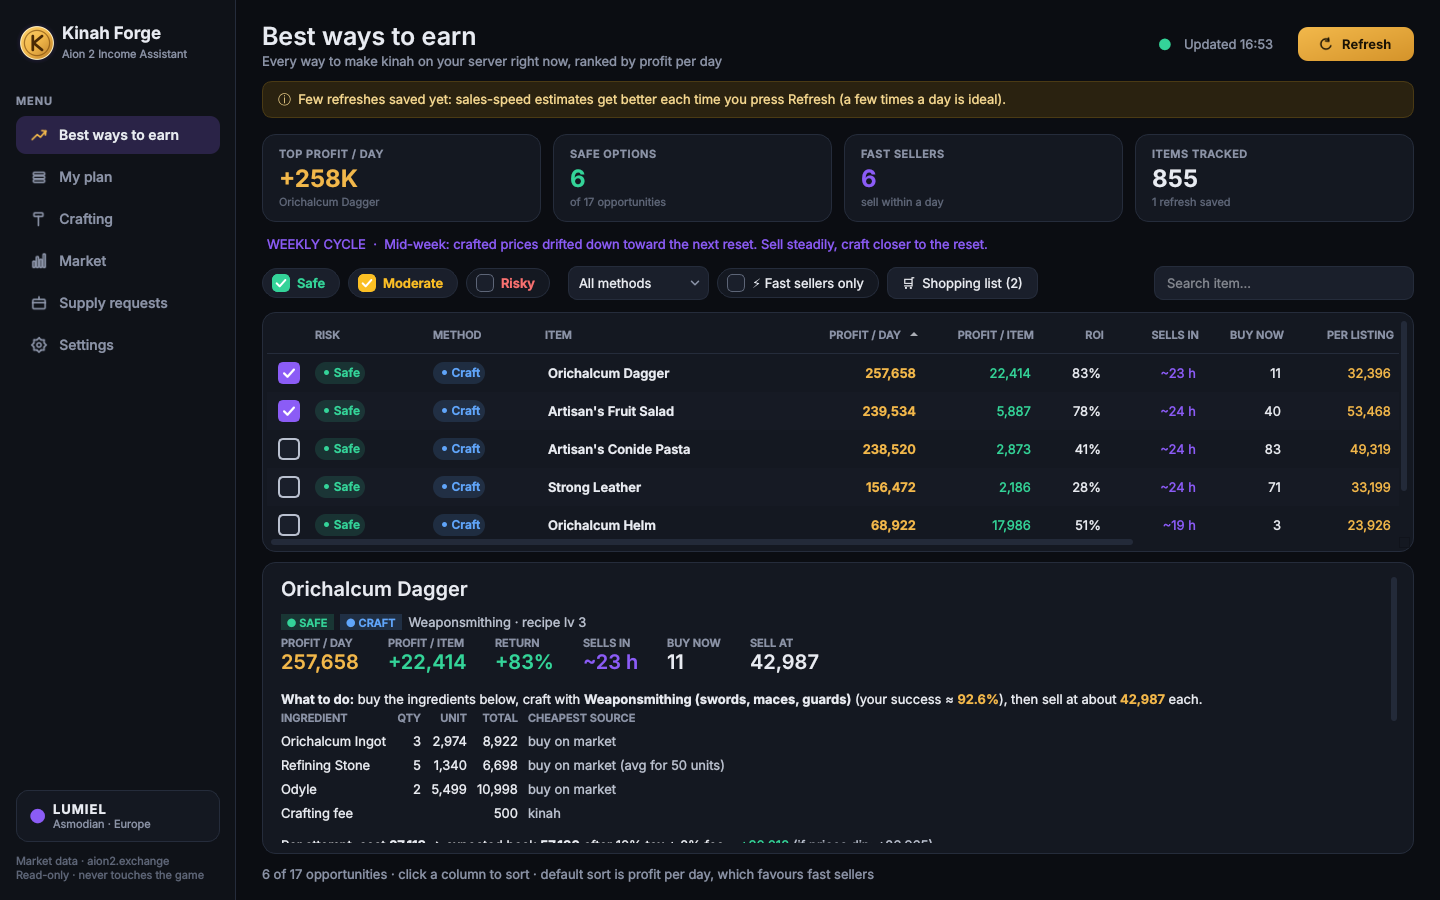
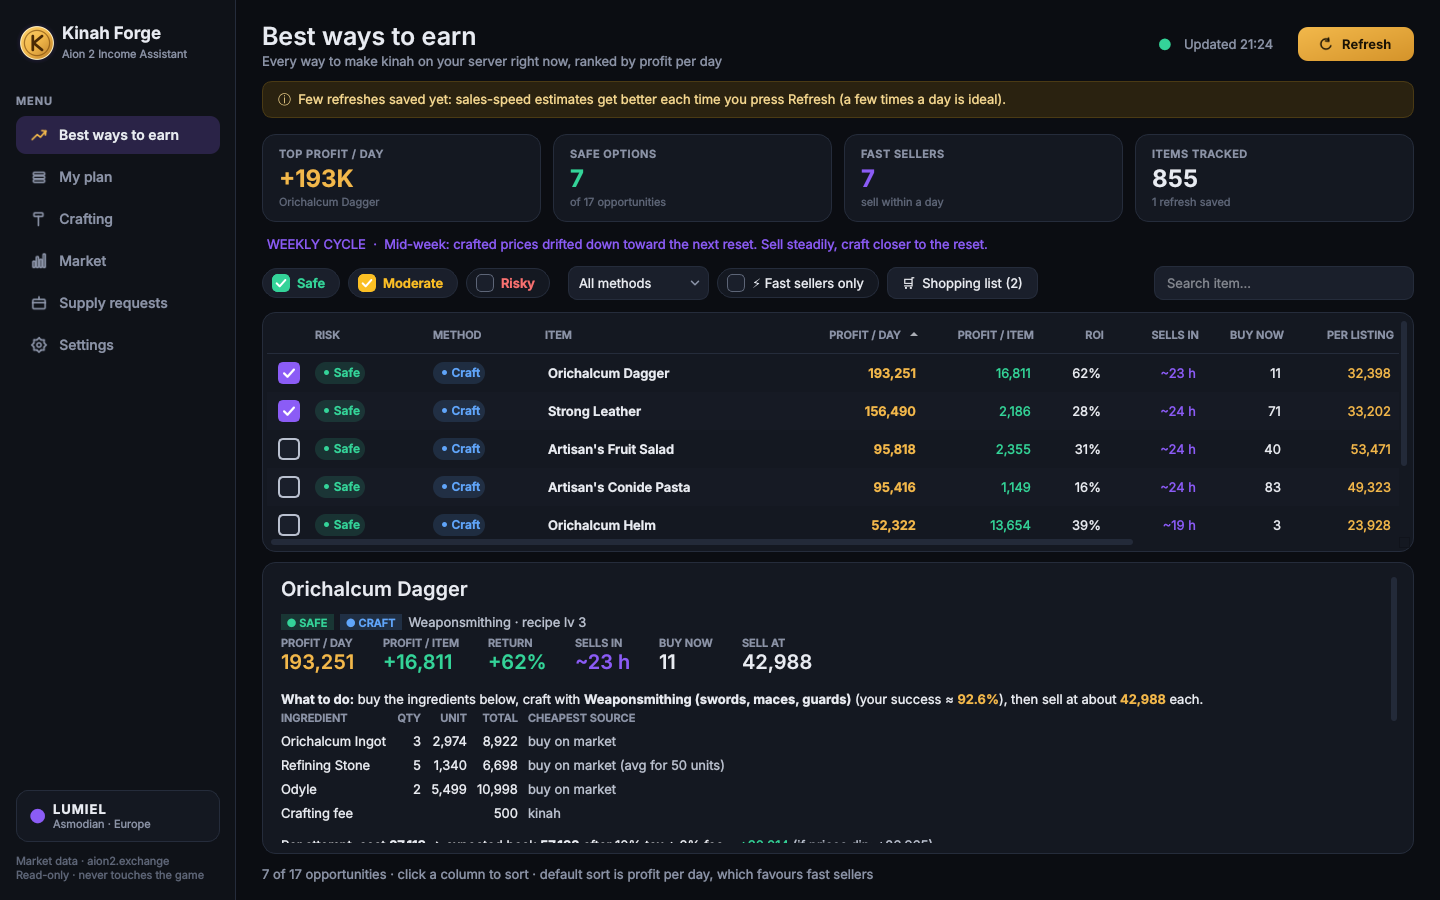
Income Assistant: tuned on 501,120 30-day runs for max income
- Biggest lever found: most of the budget in one item 15% -> 35% (EU typical
  after 30 days 84M -> 89M; past 35% Kaisinel, the real-sales server, gained
  nothing and had worse bad luck). New Settings option to change it.
- Consumables' realistic return x0.4 (they made far less than predicted on
  3 of the 4 servers that trade them).
- Confirmed: 10 days of stock, Safe+Moderate only, +20% minimum.
- Head-to-head, 50,000 runs: EU typical 84.0M -> 87.9M, median 81.7M ->
  86.5M; Kaisinel 88.3M -> 90.0M; Zikel 79.9M -> 86.0M; NA 108M -> 134M;
  better in 19 of 20 setups.
- README results, chart and screenshots refreshed.

Claude-Session: https://claude.ai/code/session_0159oSubnBYt4Xz9pRDyQSQx

diff --git a/income-assistant/aion_income/gui/main_window.py b/income-assistant/aion_income/gui/main_window.py
@@ -568,7 +568,7 @@ class MainWindow(QMainWindow):
         out.append(f"<p class='muted'>Realistic numbers above. The raw prediction is {kinah(o.profit_unit, True)} per item "
                    f"({pct(o.roi, True)}); in simulations on EU servers' real prices, trades predicted like this "
                    f"made about {pct(o.real_roi, True)}. New-game prices are hard to predict, so the plan spreads "
-                   f"your kinah (max 15% per item).</p>")
+                   f"your kinah (max {self.settings.max_share:.0%} per item, set in Settings).</p>")
         if o.good:
             out.append("<p class='green'>✔ " + "<br>✔ ".join(esc(g) for g in o.good) + "</p>")
         return "".join(out)
@@ -700,7 +700,7 @@ class MainWindow(QMainWindow):
         ops = self.plan_ops()
         drift = self.analysis.data.calibration.get("drift") if self.analysis else None
         p, stock_days, trend = make_adaptive_plan(ops, self.settings.budget, self.settings.horizon,
-                                                  self.settings.play_hours, drift)
+                                                  self.settings.play_hours, drift, self.settings.max_share)
         self.current_plan, self.stock_days = p, stock_days
         if stock_days < stock_days_for(trend) and stock_days >= self.settings.horizon:
             stock_note = f" Buying at most {stock_days:g} days of stock, as set by Sell within."
@@ -733,7 +733,8 @@ class MainWindow(QMainWindow):
                 f"{self.horizon_box.currentText()} (≈ {kinah(p.profit_per_day)}/day). Keep {kinah(p.leftover)} spare"
                 + (" — with 10 listing slots, ~5 min per listing and your playing time, the market can't take more."
                    if p.leftover > 0.2 * p.budget else ".") + stock_note)
-        tiers = holding_tiers(ops, self.settings.horizon, self.settings.play_hours, stock_days) if ops else []
+        tiers = (holding_tiers(ops, self.settings.horizon, self.settings.play_hours, stock_days, self.settings.max_share)
+                 if ops else [])
         for lab, name in zip(self.tier_labels, ("Low", "Mid", "High")):
             t = next((t for t in tiers if t.label == name), None)
             color = theme.GOLD if name == "Mid" else theme.TEXT
@@ -1255,6 +1256,15 @@ class MainWindow(QMainWindow):
         self.hours_spin.setToolTip("Each listing takes ~5 min and only 10 can be up at once, so your time limits sales")
         self.hours_spin.valueChanged.connect(self._hours_changed)
         tf.addRow("Hours you play per day", self.hours_spin)
+        self.share_spin = QSpinBox()
+        self.share_spin.setRange(5, 100)
+        self.share_spin.setSuffix(" %")
+        self.share_spin.setFixedWidth(110)
+        self.share_spin.setValue(int(round(self.settings.max_share * 100)))
+        self.share_spin.setToolTip("Most of your budget the plan puts into one item. 35% earned the most in 501,120 "
+                                   "simulated runs; up to 50% can earn a bit more but has worse bad-luck results.")
+        self.share_spin.valueChanged.connect(self._share_changed)
+        tf.addRow("Most budget in one item", self.share_spin)
         from ..engine import REGIONS
         self.server_edit = QLineEdit(self.settings.server_name)
         self.server_edit.setFixedWidth(140)
@@ -1315,6 +1325,11 @@ class MainWindow(QMainWindow):
 
     def _hours_changed(self):
         self.settings.play_hours = self.hours_spin.value()
+        self._save_settings()
+        self._update_plan()
+
+    def _share_changed(self):
+        self.settings.max_share = self.share_spin.value() / 100.0
         self._save_settings()
         self._update_plan()
 

diff --git a/income-assistant/aion_income/planner.py b/income-assistant/aion_income/planner.py
@@ -13,8 +13,10 @@ from .opportunities import LISTING_SLOTS, Opportunity, op_realistic, realistic_r
 
 # Defaults learned from simulated 50-day runs on EU and NA servers (see tools/simulate.py); both
 # regions agreed on these:
-MAX_SHARE = 0.15     # at most 15% of the budget in one item: 20-25% grew a little faster on average
-                     # but had worse bad-luck results on Kaisinel (EU, real sales) and on NA
+MAX_SHARE = 0.35     # at most 35% of the budget in one item (Settings can change it). In 501,120
+                     # 30-day runs this was the biggest lever: 15% -> 84M, 25% -> 88M, 35% -> 89M on EU
+                     # from 30M; past 35% Kaisinel (the server with real sales) gained nothing and its
+                     # bad-luck results got worse
 MAX_STOCK_DAYS = 10  # buy up to 10 days of sales when a good trade is there: good trades don't show up
                      # every day but you can sell every day, and the 10 listing slots stay full
                      # (EU: 2 days -> 52M, 7 -> 78M, 10 -> 81M; NA: 7 -> 102M, 10 -> 107M) ...
@@ -168,15 +170,15 @@ def make_plan(ops: list[Opportunity], budget: float, horizon: float = 3.0, limit
 
 
 def make_adaptive_plan(ops: list[Opportunity], budget: float, horizon: float = 10.0, play_hours: float = 8.0,
-                       market_drift: float | None = None):
+                       market_drift: float | None = None, max_share: float = MAX_SHARE):
     """make_plan with the stock length set by how the chosen items' prices are moving.
     Returns (plan, stock days, daily trend or None)."""
-    first = make_plan(ops, budget, horizon, play_hours=play_hours)
+    first = make_plan(ops, budget, horizon, play_hours=play_hours, max_share=max_share)
     trend = items_trend([l.op for l in first.lines], market_drift, [l.capital for l in first.lines])
     days = min(max(horizon, 1.0), stock_days_for(trend), MAX_STOCK_DAYS)
     if days >= min(max(horizon, 1.0), MAX_STOCK_DAYS):
         return first, days, trend
-    return make_plan(ops, budget, horizon, play_hours=play_hours, batch_days=days), days, trend
+    return make_plan(ops, budget, horizon, play_hours=play_hours, batch_days=days, max_share=max_share), days, trend
 
 
 @dataclass
@@ -191,14 +193,15 @@ TIERS = (("Low", 0.5, 5e6), ("Mid", 0.8, 15e6), ("High", 0.95, HOLD_CAP))
 
 
 def holding_tiers(ops: list[Opportunity], horizon: float = 3.0, play_hours: float = 8.0,
-                  batch_days: float | None = None) -> list[HoldTier]:
+                  batch_days: float | None = None, max_share: float = MAX_SHARE) -> list[HoldTier]:
     """Low / mid / high amounts worth holding, from where extra kinah stops paying.
 
     Each tier is the smallest amount that earns its share (50% / 80% / 95%) of what
     30 million could earn, but never more than 5M / 15M / 30M: holding more than
     that is unrealistic for most players.
     """
-    curve = [(b, make_plan(ops, b, horizon, play_hours=play_hours, batch_days=batch_days).profit_per_day) for b in GRID]
+    curve = [(b, make_plan(ops, b, horizon, play_hours=play_hours, batch_days=batch_days,
+                           max_share=max_share).profit_per_day) for b in GRID]
     best = max(p for _, p in curve)  # a bigger budget doesn't always earn more
     if best <= 0:
         return []

diff --git a/income-assistant/aion_income/engine.py b/income-assistant/aion_income/engine.py
@@ -46,6 +46,7 @@ class Settings:
     budget: float = 5_000_000
     horizon: float = 10.0  # learned: a 10-day plan (up to 10 days of stock) earned most in EU and NA simulations
     play_hours: float = 8.0
+    max_share: float = 0.35  # most of the budget the plan puts into one item (learned: 35%)
     risks: list = field(default_factory=lambda: ["Safe", "Moderate"])
     server_name: str = "Lumiel"
     server_region: str = "EU"
@@ -78,6 +79,8 @@ class Settings:
             s.horizon = num("horizon", 0, 1e9)
         if num("play_hours", 0.5, 24) is not None:
             s.play_hours = num("play_hours", 0.5, 24)
+        if num("max_share", 0.05, 1.0) is not None:
+            s.max_share = num("max_share", 0.05, 1.0)
         if isinstance(raw.get("levels"), dict):
             for p in PROFESSIONS:
                 v = raw["levels"].get(p)
@@ -101,7 +104,7 @@ class Settings:
             json.dump({"levels": self.levels, "tax_pct": self.tax_pct, "fee_pct": self.fee_pct,
                        "overrides": self.overrides, "budget": self.budget,
                        "supply_requests": supply_mod.to_json(self.supply_requests), "horizon": self.horizon,
-                       "play_hours": self.play_hours,
+                       "play_hours": self.play_hours, "max_share": self.max_share,
                        "risks": self.risks, "server_name": self.server_name,
                        "server_region": self.server_region}, f, indent=1)
         os.replace(tmp, path)

diff --git a/income-assistant/tests/test_planner.py b/income-assistant/tests/test_planner.py
@@ -128,7 +128,10 @@ def test_learned_rules_thin_margins_and_avoid_warnings_are_risky():
 def test_plan_caps_each_item_and_stocks_a_few_days():
     a = op("a", 1000, 400, per_day=1000)       # could absorb far more than the budget
     b = op("b", 1000, 300, per_day=1000)
+    from aion_income.planner import MAX_SHARE
     p = make_plan([a, b], 1_000_000, horizon=3)
+    assert all(l.capital <= MAX_SHARE * 1_000_000 + 1e-6 for l in p.lines)
+    p = make_plan([a, b], 1_000_000, horizon=3, max_share=0.15)    # the Settings option
     assert all(l.capital <= 0.15 * 1_000_000 + 1e-6 for l in p.lines)
     small = op("c", 1000, 400, per_day=10)
     p3 = make_plan([small], 1e9, horizon=3)
@@ -145,7 +148,7 @@ def test_realistic_roi_curve():
 def test_million_run_rules():
     from aion_income.opportunities import MIN_PRED_ROI
     from aion_income.planner import MAX_SHARE, MAX_STOCK_DAYS
-    assert MIN_PRED_ROI == 0.20 and MAX_SHARE == 0.15 and MAX_STOCK_DAYS == 10
+    assert MIN_PRED_ROI == 0.20 and MAX_SHARE == 0.35 and MAX_STOCK_DAYS == 10
     st = ItemStats(key="k", name="X", ask=1000, listings=40, ref=1400, ref_basis="t", history_points=48,
                    sales_per_day=30, sales_hours=24, volatility=0.05, pessimistic=600, trend_short=0.0, reversion=1.0)
     o = resell_opportunity(st, 0.88)       # +23% predicted but loses money at the recent low

diff --git a/income-assistant/aion_income/opportunities.py b/income-assistant/aion_income/opportunities.py
@@ -38,8 +38,10 @@ def realistic_roi(pred_roi: float, calibration=CALIBRATION) -> float:
 #    expected: that use is counted at a quarter of its estimated value
 #  - crafts needing a Splendent base made through combo procs realised ~60% of the estimate
 #  - big price swings (over ±35%) ~74%, weapons ~75%
+#  - consumables (potions, scrolls, food): in 501,120 more runs they made -39% / +5% / +3% / +81%
+#    where +64% / +99% / +59% / +137% was predicted on the four servers that trade them -> ~40%
 UPGRADE_KEEP = 0.25
-FORMULA_FACTORS = {"combo_base": 0.6, "swings": 0.74, "weapons": 0.75}
+FORMULA_FACTORS = {"combo_base": 0.6, "swings": 0.74, "weapons": 0.75, "consumables": 0.4}
 
 
 def formula_roi(op) -> float:
@@ -57,6 +59,8 @@ def formula_roi(op) -> float:
         v *= FORMULA_FACTORS["swings"]
     if st and st.section == "weapons":
         v *= FORMULA_FACTORS["weapons"]
+    if st and st.section == "consumables":
+        v *= FORMULA_FACTORS["consumables"]
     return v
 
 

diff --git a/income-assistant/tests/test_engine.py b/income-assistant/tests/test_engine.py
@@ -118,10 +118,12 @@ def test_settings_roundtrip_and_bad_file(tmp_path):
     s.budget = 12e6
     s.play_hours = 5.5
     s.server_region = "NAW"
+    s.max_share = 0.5
     s.save(str(p))
     t = Settings.load(str(p))
     assert t.levels["alchemy"] == 77 and t.overrides == {"123": 88.5} and t.budget == 12e6
-    assert t.play_hours == 5.5 and t.server_region == "NAW"
+    assert t.play_hours == 5.5 and t.server_region == "NAW" and t.max_share == 0.5
+    assert Settings().max_share == 0.35
     assert Settings().server_region == "EU"
     p.write_text("{broken")
     assert Settings.load(str(p)).levels["alchemy"] == 0

diff --git a/income-assistant/README.md b/income-assistant/README.md
@@ -124,7 +124,7 @@ random/real-order replay × 347 runs = **999,360 simulated 50-day runs, starting
 |---|---|---|---|
 | Days of stock bought at once | 2 d → 77M · 3 → 83M · 5 → 90M · 7 → 94M (search average); 10 days beat 7 in a follow-up | 7 → 102M, 10 → 107M | **up to 10 days while prices hold, fewer when they fall** (see below) |
 | Minimum predicted return | 10% ≈ 20% > 35%; every top strategy used 20% | 20% best | **+20%**, thinner trades are Risky |
-| Most budget in one item | 25% grew ~4% more on average, but on Kaisinel in real order 15% had the better bad-luck results | 15% clearly better bad-luck results | **15%** |
+| Most budget in one item | 25% grew ~4% more on average over 50 days (the later 30-day search favoured 35%, see below) | 15% clearly better bad-luck results | **35%** since the final search |
 | "Loses money if the price falls to its recent low" | made −8% | made −2% | **Risky** |
 | Skipping combo-luck trades | **−16M** | −8M | kept, **Moderate** (never Safe) |
 | Skipping swingy trades | −7M | −8M | kept |
@@ -141,18 +141,33 @@ below; it had been understated ~2.5×) and how combo procs are valued:
 
 | | Median | 10–90% of runs | Runs below 30M |
 |---|---|---|---|
-| **EU, shipped default** | **120M (+1.8M/day)** | **97–160M** | **0%** |
-| · Kaisinel (real sales) | 131M (+2.0M/day) | 99–186M | 0% |
-| · Zikel (borrowed volumes) | 115M | 96–134M | 0% |
-| · Kaisinel if you win only half the buyers assumed | 83M (+1.1M/day) | 63–110M | 0% |
-| NA, same shipped default | 175M | 108–292M | 0% |
+| **EU, shipped default** | **129M (+2.0M/day)** | **101–177M** | **0%** |
+| · Kaisinel (real sales) | 141M (+2.2M/day) | 100–201M | 0% |
+| · Zikel (borrowed volumes) | 127M | 103–153M | 0% |
+| · Kaisinel if you win only half the buyers assumed | 89M (+1.2M/day) | 62–127M | 0% |
+| NA, same shipped default | 233M | 128–495M | 0% |
 
-**On Lumiel, plan for +50M to +100M on 30M over 50 days** (the half-buyers and the
+**On Lumiel, plan for +60M to +110M on 30M over 50 days** (the half-buyers and the
 full Kaisinel rows). The app assumes you win 30% of an item's buyers as one more
 seller; nobody can measure that yet, so the lower row is the cautious case. From
-15M, a typical first week ended around 26.5M (about 9M of it cash, the rest stock
-still listed). The game is new and prices are hard to predict, so refresh often:
+15M, a typical first week ended around 27M (about 6–11M of it cash, the rest stock
+still listed; 6% of Kaisinel weeks were below 15M on paper, so don't judge week one). The game is new and prices are hard to predict, so refresh often:
 the app keeps re-learning from your own history.
+
+**The final 501,120-run search (30-day paths, max income first).** 108 strategies × 20 setups
+(Kaisinel, Zikel and three NA servers × crafting level 60/100 × random/real-order replay) × 232
+runs of 30 days from 30M at 8 h/day, each also tallying which kinds of trades paid:
+
+| Setting | Effect (EU typical after 30 days) | Built in |
+|---|---|---|
+| Most budget in one item | 15% → 84M · 25% → 88M · **35% → 89M** · 50% → 89M · 100% → 89M; on Kaisinel (real sales) nothing past 25–35% and worse bad luck | **35%**, changeable in Settings |
+| Days of stock | 7 → 80M · **10 → 83M** | 10 (adaptive) |
+| Trades allowed | Safe+Moderate 84M · +thin-margin Risky 84M · everything 77M | Safe+Moderate |
+| Consumables | made −39% / +5% / +3% / +81% where +64% / +99% / +59% / +137% was predicted | realistic return ×0.4 |
+
+Head-to-head, 50,000 more runs: EU typical 84.0M → **87.9M**, median 81.7M → **86.5M**; Kaisinel
+88.3M → 90.0M; Zikel 79.9M → 86.0M; NA 108M → 134M; better in 19 of 20 setups. The price is a
+little more swing: on Kaisinel the worst 10% went 60.0M → 58.1M and losing runs 0.1% → 0.7%.
 
 **What 50,000 more runs (30-day paths, Splendents included) changed.** 3,600 runs
 recorded 277,491 trades with what kind of trade each was. Kept only what held on both
